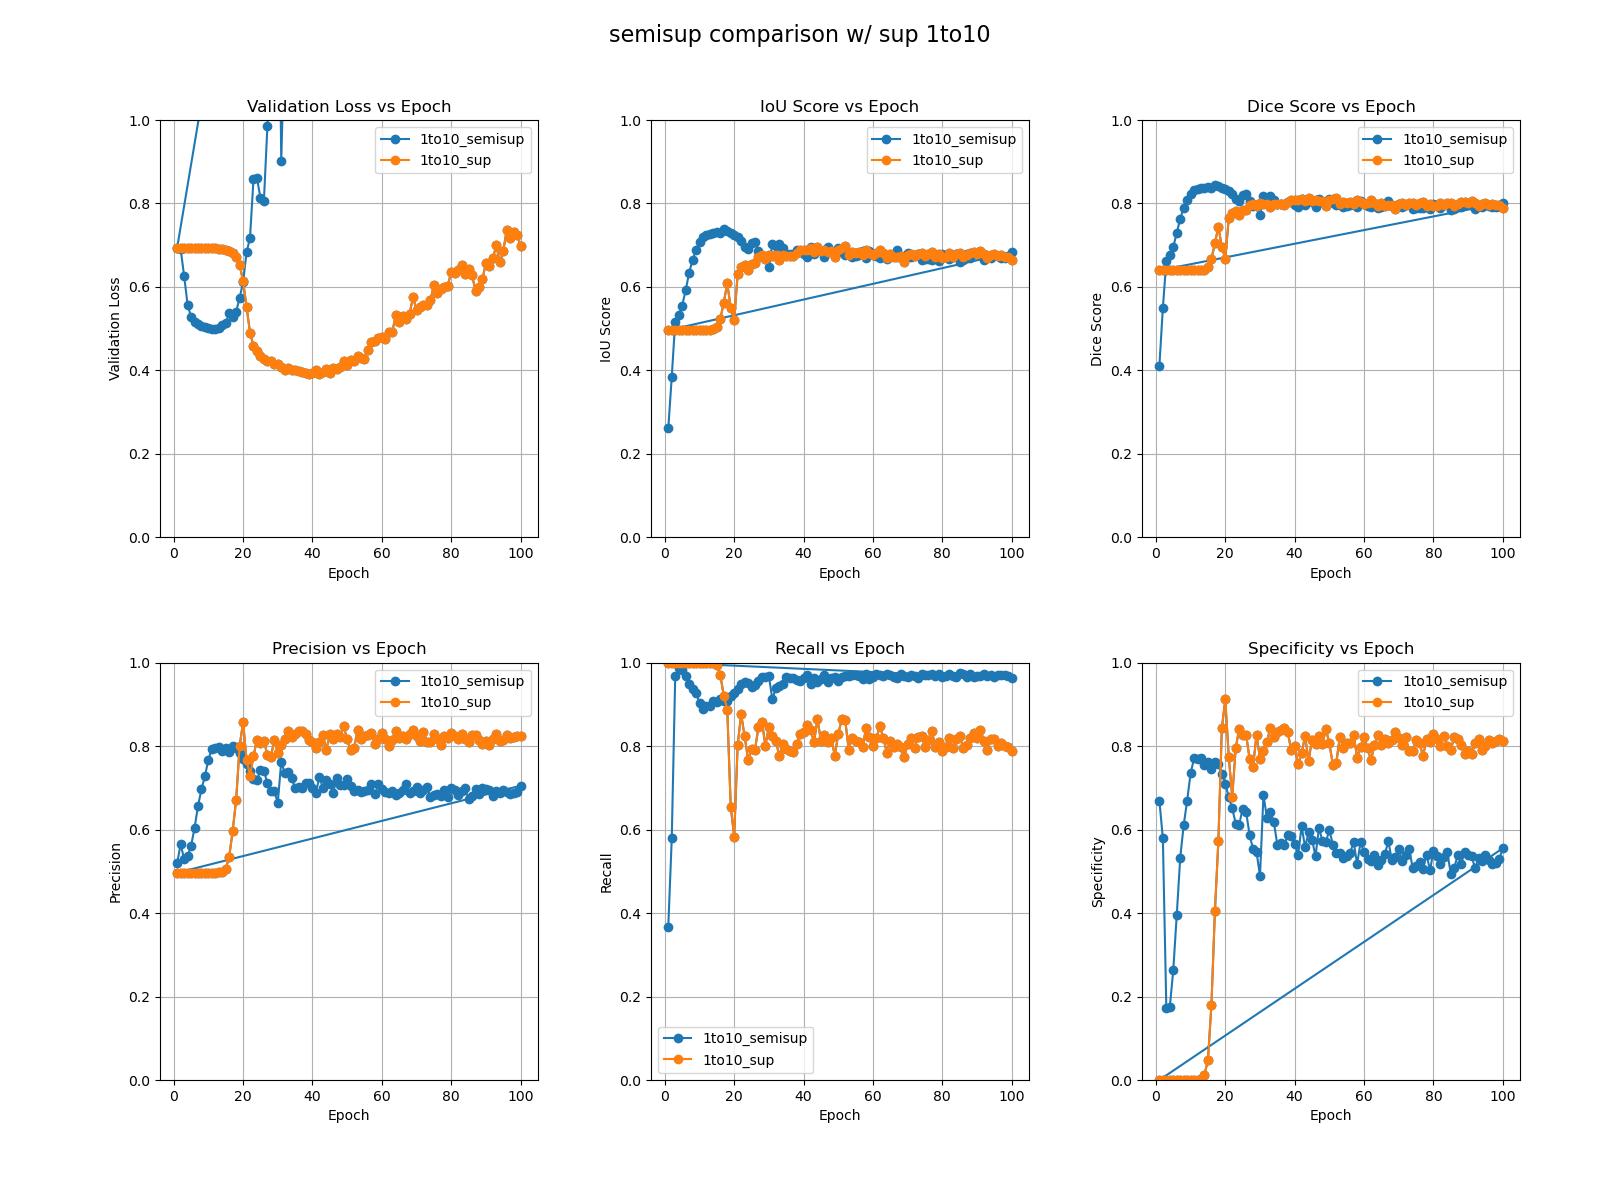
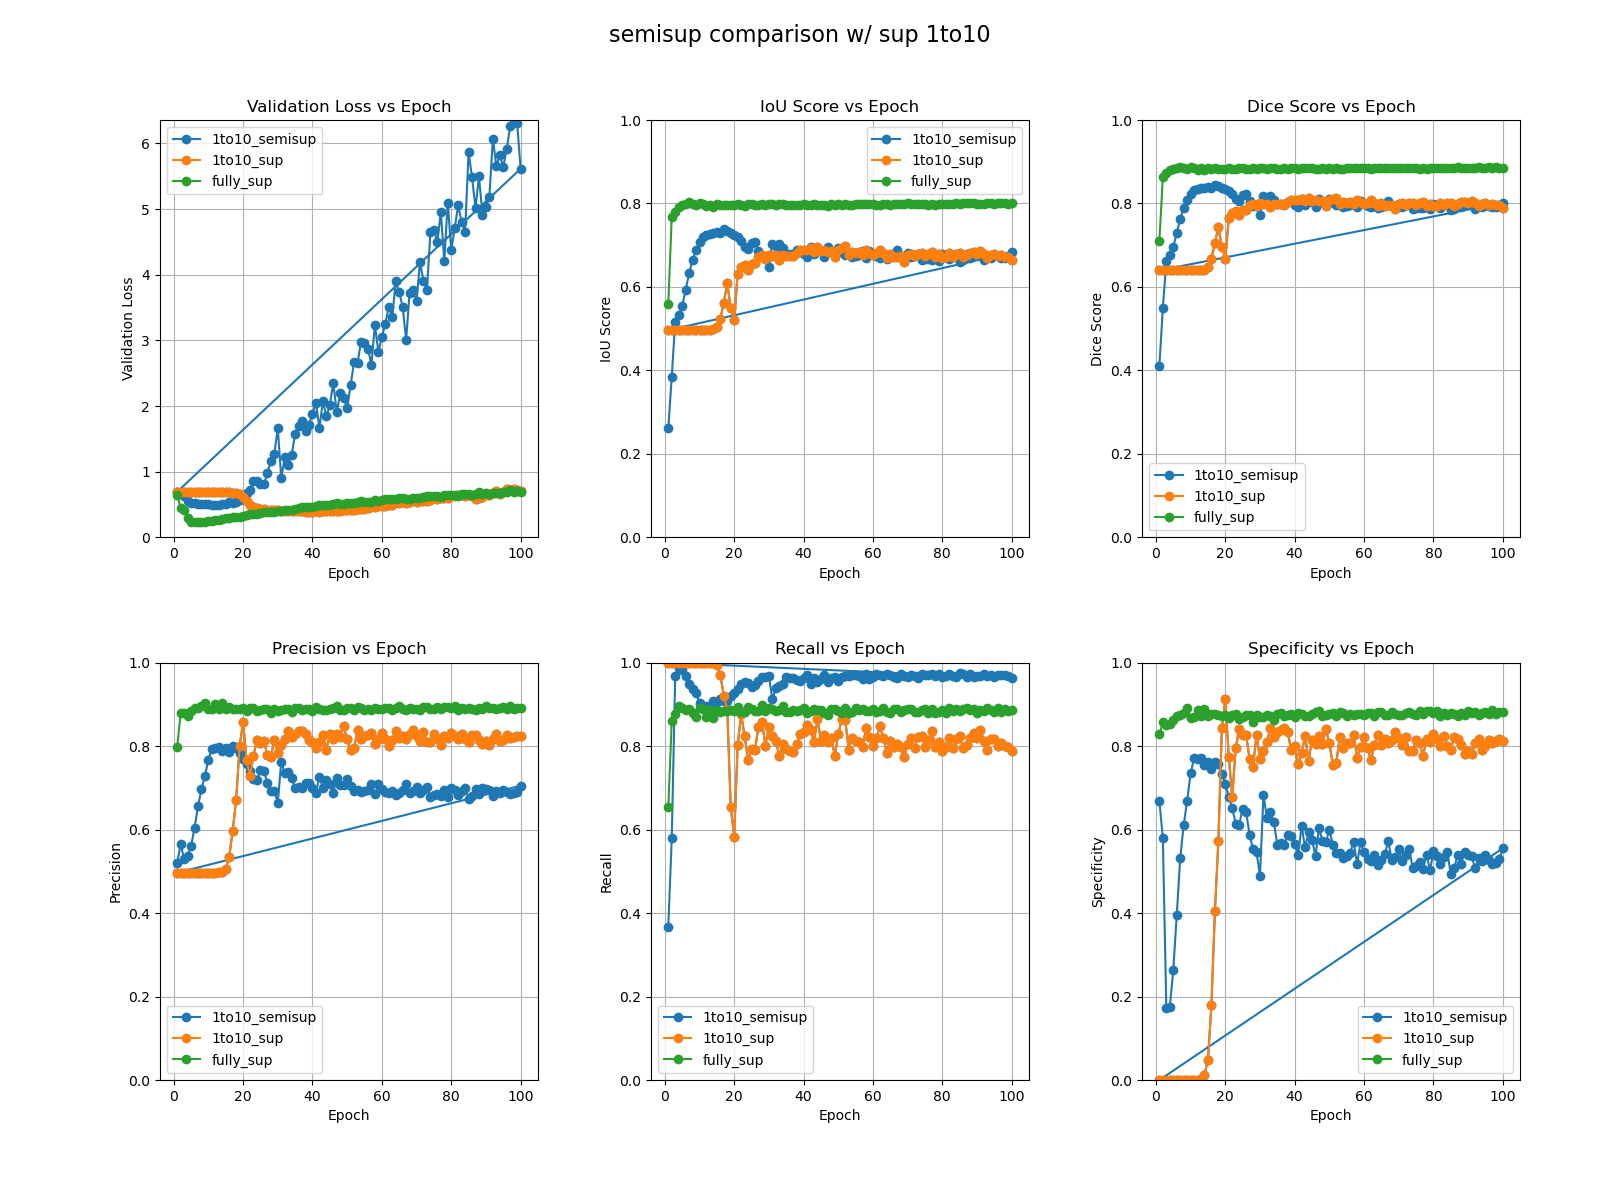
all plots added

diff --git a/plot_metrics.py b/plot_metrics.py
@@ -53,7 +53,7 @@ def plot_metrics(csv_file):
     png_file = os.path.join('results_img', fig_name + '.png')
     plt.savefig(png_file)
 
-
+plot_metrics('csv_metrics/metrics_fully_sup.csv')
 plot_metrics('csv_metrics/metrics_1to1_semisup.csv')
 plot_metrics('csv_metrics/metrics_1to1_sup.csv')
 plot_metrics('csv_metrics/metrics_1to3_sup.csv')
@@ -64,112 +64,120 @@ plot_metrics('csv_metrics/metrics_1to10_semisup.csv')
 plot_metrics('csv_metrics/metrics_1to10_sup.csv')
 
 
-# def plot_three_metrics(semisup_csv, sup_csv, fully_sup_csv):
-#     '''Plot comparison between semi-sup model and its lower bound (trained on the labeled data only) and upper bound (all the data in the dataset are labeled)'''
-#     # Read data from both CSV files
-#     headers1, data1 = read_csv_data(semisup_csv)
-#     headers2, data2 = read_csv_data(sup_csv)
-#     headers3, data3 = read_csv_data(fully_sup_csv)
+def plot_three_metrics(semisup_csv, sup_csv, fully_sup_csv):
+    '''Plot comparison between semi-sup model and its lower bound (trained on the labeled data only) and upper bound (all the data in the dataset are labeled)'''
+    # Read data from both CSV files
+    headers1, data1 = read_csv_data(semisup_csv)
+    headers2, data2 = read_csv_data(sup_csv)
+    headers3, data3 = read_csv_data(fully_sup_csv)
 
-#     # Transpose data for easier plotting
-#     data1 = list(zip(*data1))
-#     data2 = list(zip(*data2))
-#     data3 = list(zip(*data3))
+    # Transpose data for easier plotting
+    data1 = list(zip(*data1))
+    data2 = list(zip(*data2))
+    data3 = list(zip(*data3))
     
-#     # Create a 2*3 grid of subplots
-#     fig, axes = plt.subplots(2, 3, figsize=(16, 12))
-#     axes = axes.ravel()
+    # Create a 2*3 grid of subplots
+    fig, axes = plt.subplots(2, 3, figsize=(16, 12))
+    axes = axes.ravel()
     
-#     # Function to extract label from CSV file name
-#     def extract_label(file_name):
-#         file_name = file_name.replace("csv_metrics/metrics_", "")
-#         file_name = file_name.replace(".csv", "")
-#         return file_name
+    # Function to extract label from CSV file name
+    def extract_label(file_name):
+        file_name = file_name.replace("csv_metrics/metrics_", "")
+        file_name = file_name.replace(".csv", "")
+        return file_name
     
-#     # Create a plot for each column
-#     for i in range(1, len(headers1)):
-#         ax = axes[i-1]
-#         ax.set_ylim([0, 1])
-#         ax.plot(data1[0], data1[i], marker='o', linestyle='-', label=f'{extract_label(semisup_csv)}')
-#         ax.plot(data2[0], data2[i], marker='o', linestyle='-', label=f'{extract_label(sup_csv)}')
-#         ax.plot(data3[0], data3[i], marker='o', linestyle='-', label=f'{extract_label(fully_sup_csv)}')
-#         ax.set_xlabel(headers1[0])
-#         ax.set_ylabel(headers1[i])
-#         ax.set_title(f'{headers1[i]} vs {headers1[0]}')
-#         ax.grid(True)
-#         ax.legend()
+    # Create a plot for each column
+    for i in range(1, len(headers1)):
+        ax = axes[i-1]
+        if max(data1[i]) < 1:
+            ax.set_ylim([0, 1])
+        else:
+            ax.set_ylim([0, max(data1[i])])
+        ax.plot(data1[0], data1[i], marker='o', linestyle='-', label=f'{extract_label(semisup_csv)}')
+        ax.plot(data2[0], data2[i], marker='o', linestyle='-', label=f'{extract_label(sup_csv)}')
+        ax.plot(data3[0], data3[i], marker='o', linestyle='-', label=f'{extract_label(fully_sup_csv)}')
+        ax.set_xlabel(headers1[0])
+        ax.set_ylabel(headers1[i])
+        ax.set_title(f'{headers1[i]} vs {headers1[0]}')
+        ax.grid(True)
+        ax.legend()
 
-#     # Get figure title from the first csv file name
-#     base_name = os.path.basename(semisup_csv)
-#     fig_name = os.path.splitext(base_name)[0]
-#     suptitle = fig_name.split("_", 2)[1]
-#     supertitle = 'semisup comparison w/ sup ' + suptitle
+    # Get figure title from the first csv file name
+    base_name = os.path.basename(semisup_csv)
+    fig_name = os.path.splitext(base_name)[0]
+    suptitle = fig_name.split("_", 2)[1]
+    supertitle = 'semisup comparison w/ sup ' + suptitle
 
-#     # Add an overall figure title
-#     fig.suptitle(supertitle, fontsize=16)
+    # Add an overall figure title
+    fig.suptitle(supertitle, fontsize=16)
     
-#     # Adjust layout for better appearance and provide space for the suptitle
-#     fig.subplots_adjust(left=0.1, right=0.95, bottom=0.1, top=0.9, wspace=0.3, hspace=0.3)
+    # Adjust layout for better appearance and provide space for the suptitle
+    fig.subplots_adjust(left=0.1, right=0.95, bottom=0.1, top=0.9, wspace=0.3, hspace=0.3)
     
-#     # Create the 'results_img' folder if it doesn't exist
-#     os.makedirs('results_img', exist_ok=True)
+    # Create the 'results_img' folder if it doesn't exist
+    os.makedirs('results_img', exist_ok=True)
     
-#     # Save the figure as a .png file with the same name as the first .csv file, in the 'results_img' folder
-#     png_file = os.path.join('results_img', 'semisup_comparison_w_sup_' + suptitle + '.png')
-#     plt.savefig(png_file)
-    
-# plot_three_metrics('csv_metrics/metrics_1to5_semisup.csv', 'csv_metrics/metrics_1to5_sup.csv', 'csv_metrics/metrics_fully_sup.csv')
-# plot_three_metrics('csv_metrics/metrics_1to10_semisup.csv', 'csv_metrics/metrics_1to10_sup.csv', 'csv_metrics/metrics_fully_sup.csv')
+    # Save the figure as a .png file with the same name as the first .csv file, in the 'results_img' folder
+    png_file = os.path.join('results_img', 'semisup_comparison_w_sup_' + suptitle + '.png')
+    plt.savefig(png_file)
 
-# def plot_four_metrics(csv_1to1, csv_1to3, csv_1to5, csv_1to10):
-#     '''Plot comparison between semi-sup model and its lower bound (trained on the labeled data only) and upper bound (all the data in the dataset are labeled)'''
-#     # Read data from both CSV files
-#     headers1, data1 = read_csv_data(csv_1to1)
-#     headers2, data2 = read_csv_data(csv_1to3)
-#     headers3, data3 = read_csv_data(csv_1to5)
-#     headers4, data4 = read_csv_data(csv_1to10)
+plot_three_metrics('csv_metrics/metrics_1to1_semisup.csv', 'csv_metrics/metrics_1to1_sup.csv', 'csv_metrics/metrics_fully_sup.csv')    
+plot_three_metrics('csv_metrics/metrics_1to3_semisup.csv', 'csv_metrics/metrics_1to3_sup.csv', 'csv_metrics/metrics_fully_sup.csv')    
+plot_three_metrics('csv_metrics/metrics_1to5_semisup.csv', 'csv_metrics/metrics_1to5_sup.csv', 'csv_metrics/metrics_fully_sup.csv')
+plot_three_metrics('csv_metrics/metrics_1to10_semisup.csv', 'csv_metrics/metrics_1to10_sup.csv', 'csv_metrics/metrics_fully_sup.csv')
 
-#     # Transpose data for easier plotting
-#     data1 = list(zip(*data1))
-#     data2 = list(zip(*data2))
-#     data3 = list(zip(*data3))
-#     data4 = list(zip(*data4))
-    
-#     # Create a 2*3 grid of subplots
-#     fig, axes = plt.subplots(2, 3, figsize=(16, 12))
-#     axes = axes.ravel()
-    
-#     # Function to extract label from CSV file name
-#     def extract_label(file_name):
-#         file_name = file_name.replace("csv_metrics/metrics_", "")
-#         file_name = file_name.replace(".csv", "")
-#         return file_name
-    
-#     # Create a plot for each column
-#     for i in range(1, len(headers1)):
-#         ax = axes[i-1]
-#         ax.set_ylim([0, 1])
-#         ax.plot(data1[0], data1[i], marker='o', linestyle='-', label=f'{extract_label(csv_1to1)}')
-#         ax.plot(data2[0], data2[i], marker='o', linestyle='-', label=f'{extract_label(csv_1to3)}')
-#         ax.plot(data3[0], data3[i], marker='o', linestyle='-', label=f'{extract_label(csv_1to5)}')
-#         ax.plot(data4[0], data4[i], marker='o', linestyle='-', label=f'{extract_label(csv_1to10)}')
-#         ax.set_xlabel(headers1[0])
-#         ax.set_ylabel(headers1[i])
-#         ax.set_title(f'{headers1[i]} vs {headers1[0]}')
-#         ax.grid(True)
-#         ax.legend()
+def plot_four_metrics(csv_1to1, csv_1to3, csv_1to5, csv_1to10):
+    '''Plot comparison between the different ratios of labeled to unlabeled data'''
+    # Read data from both CSV files
+    headers1, data1 = read_csv_data(csv_1to1)
+    headers2, data2 = read_csv_data(csv_1to3)
+    headers3, data3 = read_csv_data(csv_1to5)
+    headers4, data4 = read_csv_data(csv_1to10)
 
-#     # Add an overall figure title
-#     fig.suptitle("Performance comparison between different ratios of labeled to unlabeled data", fontsize=16)
+    # Transpose data for easier plotting
+    data1 = list(zip(*data1))
+    data2 = list(zip(*data2))
+    data3 = list(zip(*data3))
+    data4 = list(zip(*data4))
     
-#     # Adjust layout for better appearance and provide space for the suptitle
-#     fig.subplots_adjust(left=0.1, right=0.95, bottom=0.1, top=0.9, wspace=0.3, hspace=0.3)
+    # Create a 2*3 grid of subplots
+    fig, axes = plt.subplots(2, 3, figsize=(16, 12))
+    axes = axes.ravel()
     
-#     # Create the 'results_img' folder if it doesn't exist
-#     os.makedirs('results_img', exist_ok=True)
+    # Function to extract label from CSV file name
+    def extract_label(file_name):
+        file_name = file_name.replace("csv_metrics/metrics_", "")
+        file_name = file_name.replace(".csv", "")
+        return file_name
     
-#     # Save the figure as a .png file with the same name as the first .csv file, in the 'results_img' folder
-#     png_file = os.path.join('results_img', 'diff_ratio_comparison' + '.png')
-#     plt.savefig(png_file)
+    # Create a plot for each column
+    for i in range(1, len(headers1)):
+        ax = axes[i-1]
+        if max(data4[i]) < 1:
+            ax.set_ylim([0, 1])
+        else:
+            ax.set_ylim([0, max(data4[i])])
+        ax.plot(data1[0], data1[i], marker='o', linestyle='-', label=f'{extract_label(csv_1to1)}')
+        ax.plot(data2[0], data2[i], marker='o', linestyle='-', label=f'{extract_label(csv_1to3)}')
+        ax.plot(data3[0], data3[i], marker='o', linestyle='-', label=f'{extract_label(csv_1to5)}')
+        ax.plot(data4[0], data4[i], marker='o', linestyle='-', label=f'{extract_label(csv_1to10)}')
+        ax.set_xlabel(headers1[0])
+        ax.set_ylabel(headers1[i])
+        ax.set_title(f'{headers1[i]} vs {headers1[0]}')
+        ax.grid(True)
+        ax.legend()
+
+    # Add an overall figure title
+    fig.suptitle("Performance comparison between different ratios of labeled to unlabeled data", fontsize=16)
     
-#     plot_four_metrics('csv_metrics/metrics_1to1_semisup.csv', 'csv_metrics/metrics_1to3_semisup.csv', 'csv_metrics/metrics_1to5_semisup.csv', 'csv_metrics/metrics_1to10_semisup.csv')
+    # Adjust layout for better appearance and provide space for the suptitle
+    fig.subplots_adjust(left=0.1, right=0.95, bottom=0.1, top=0.9, wspace=0.3, hspace=0.3)
+    
+    # Create the 'results_img' folder if it doesn't exist
+    os.makedirs('results_img', exist_ok=True)
+    
+    # Save the figure as a .png file with the same name as the first .csv file, in the 'results_img' folder
+    png_file = os.path.join('results_img', 'diff_ratio_comparison' + '.png')
+    plt.savefig(png_file)
+    
+plot_four_metrics('csv_metrics/metrics_1to1_semisup.csv', 'csv_metrics/metrics_1to3_semisup.csv', 'csv_metrics/metrics_1to5_semisup.csv', 'csv_metrics/metrics_1to10_semisup.csv')
